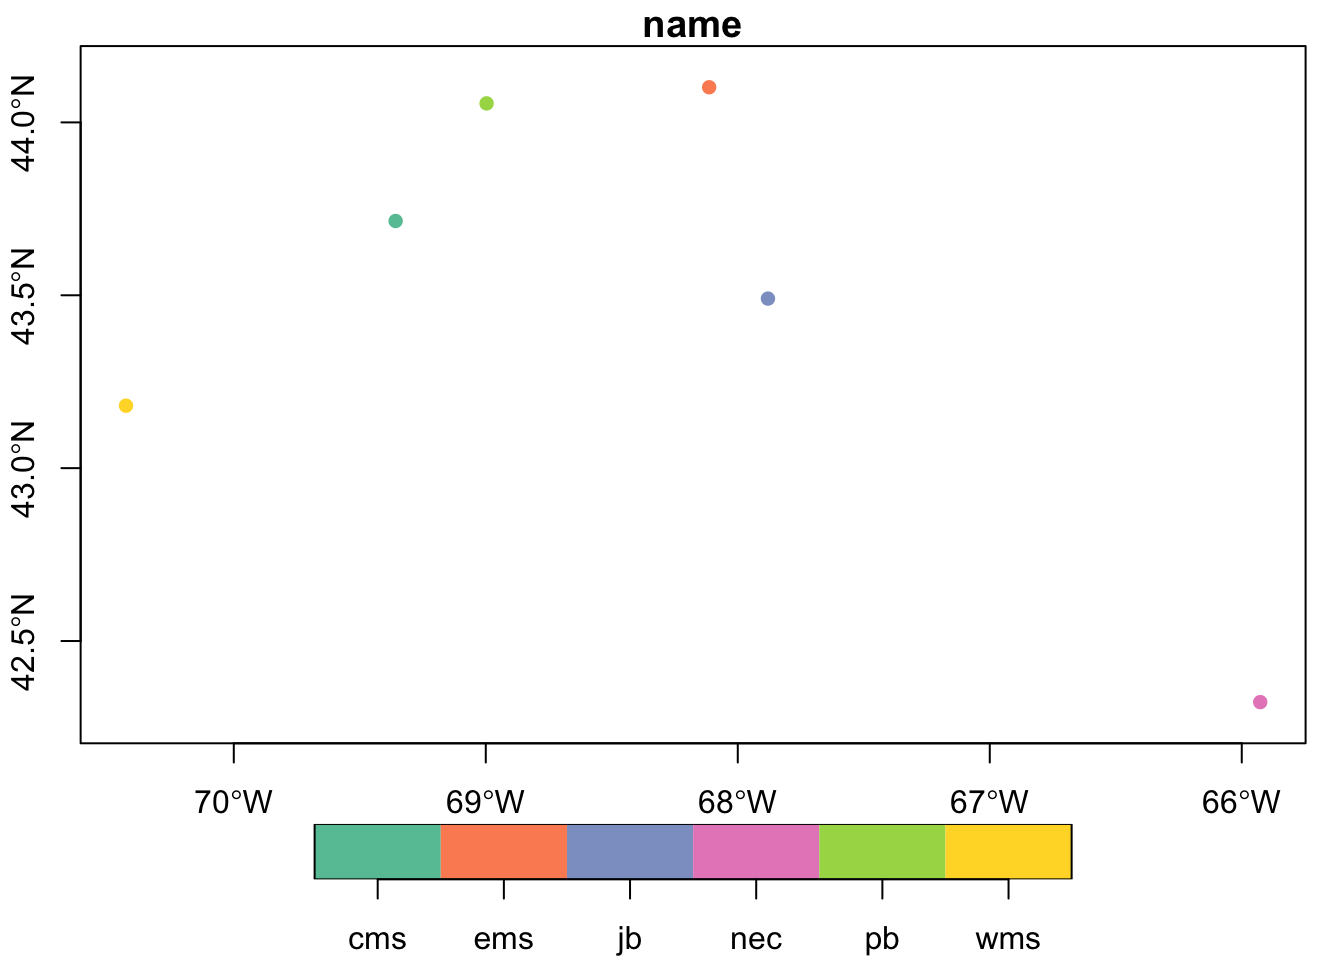
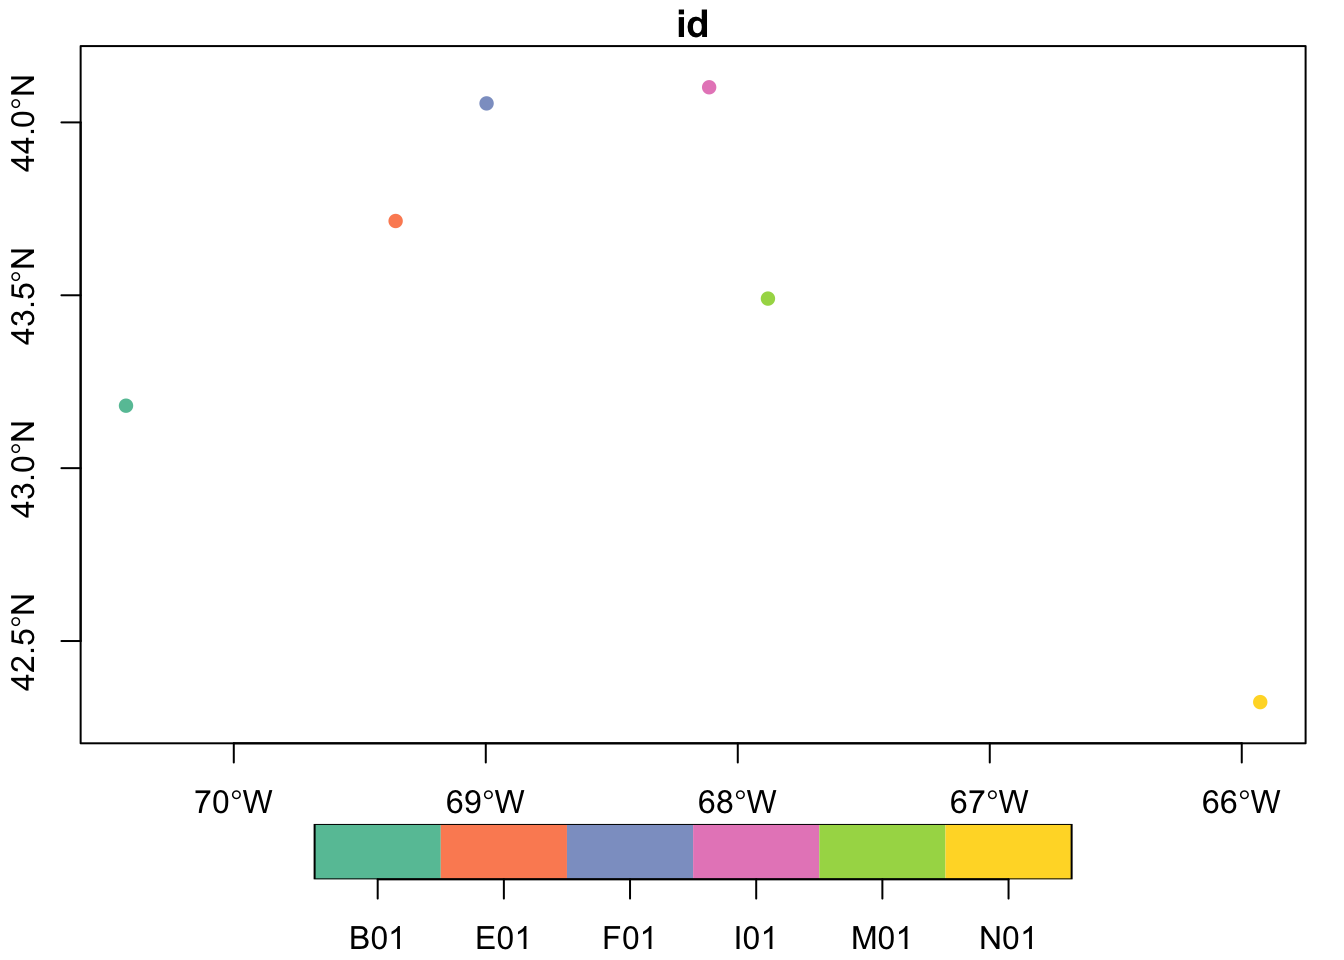
render C00_coding page

diff --git a/docs/C00_coding.html b/docs/C00_coding.html
@@ -251,7 +251,7 @@ pre > code.sourceCode > span > a:first-child::before { text-decoration: underlin
 </section>
 <section id="coding-with-r" class="level1" data-number="4">
 <h1 data-number="4"><span class="header-section-number">4</span> Coding with R</h1>
-<p>There are <a href="https://duckduckgo.com/?t=ffab&amp;q=introduction+to+R&amp;atb=v342-1&amp;ia=web">SO MANY TUTORIALS</a>, some a great and some not so much. <a href="https://intro2r.com/">This one</a> is a pretty good baby-steps approach and is quite up-to-date. You may find another that you prefer - let us know what works for you.</p>
+<p>There are <a href="https://duckduckgo.com/?t=ffab&amp;q=introduction+to+R&amp;atb=v342-1&amp;ia=web">SO MANY TUTORIALS</a>, some are great and some not so much. <a href="https://intro2r.com/">This one</a> is a pretty good baby-steps approach and is quite up-to-date. You may find another that you prefer - let us know what works for you.</p>
 <p>Take time to look at the tutorials in our <a href="https://github.com/BigelowLab/ColbyForecasting2025/wiki">wiki</a>. Especially the one on <a href="https://github.com/BigelowLab/ColbyForecasting2025/wiki/tables">working with tabular data</a>.</p>
 <p>There is so much to learning a programming language - it takes diving in to really get going. We’ll try to give you enough so that you can continue learning on your own.</p>
 <p><a href="https://en.wikipedia.org/wiki/A_journey_of_a_thousand_miles_begins_with_a_single_step">A journey of a thousand miles begins with a single step</a>; so let’s dive in.</p>
@@ -291,9 +291,9 @@ Geodetic CRS:  WGS 84
 6 nec   Northeast Channel   N01     (-65.9267 42.3233)</code></pre>
 </div>
 </div>
-<p>So there are 6 buoys, each with an attached attribute “name”, “longname” and “id”, as well as the spatial location datain the “geometry” column (just longitude and latitude in this case). We can easily plot these using the “name” column as a color key.</p>
+<p>So there are 6 buoys, each with an attached attribute “name”, “longname” and “id”, as well as the spatial location datain the “geometry” column (just longitude and latitude in this case). We can easily plot these using the “name” column as a color key. For more on plotting spatial data, see this <a href="Spatial">wiki page</a>.</p>
 <div class="cell">
-<div class="sourceCode cell-code" id="cb4"><pre class="sourceCode r code-with-copy"><code class="sourceCode r"><span id="cb4-1"><a href="#cb4-1" aria-hidden="true" tabindex="-1"></a><span class="fu">plot</span>(buoys[<span class="st">'name'</span>], <span class="at">axes =</span> <span class="cn">TRUE</span>, <span class="at">pch =</span> <span class="dv">16</span>)</span></code><button title="Copy to Clipboard" class="code-copy-button"><i class="bi"></i></button></pre></div>
+<div class="sourceCode cell-code" id="cb4"><pre class="sourceCode r code-with-copy"><code class="sourceCode r"><span id="cb4-1"><a href="#cb4-1" aria-hidden="true" tabindex="-1"></a><span class="fu">plot</span>(buoys[<span class="st">'id'</span>], <span class="at">axes =</span> <span class="cn">TRUE</span>, <span class="at">pch =</span> <span class="dv">16</span>)</span></code><button title="Copy to Clipboard" class="code-copy-button"><i class="bi"></i></button></pre></div>
 <div class="cell-output-display">
 <div>
 <figure class="figure">
@@ -336,13 +336,17 @@ Geodetic CRS:  WGS 84
 14 ((-74.9 39.14709, -74.89702 39.14546, -74.9 39.1329), (-74.9 38.95218, -74.7…</code></pre>
 </div>
 </div>
-<p>In this case, each record of geometry is a “MULTILINESTRING”, which is a group of one or more limestrings. Note that no other data is in this table - it’s just the geometry.</p>
+<p>In this case, each record of geometry is a “MULTILINESTRING”, which is a group of one or more linestrings. Note that no other variables are in this table - it’s just the geometry.</p>
 <p>Let’s plot these geometries, and add the points on top.</p>
 <div class="cell">
 <div class="sourceCode cell-code" id="cb7"><pre class="sourceCode r code-with-copy"><code class="sourceCode r"><span id="cb7-1"><a href="#cb7-1" aria-hidden="true" tabindex="-1"></a><span class="fu">plot</span>(coast, <span class="at">col =</span> <span class="st">"orange"</span>, <span class="at">lwd =</span> <span class="dv">2</span>, <span class="at">axes =</span> <span class="cn">TRUE</span>, <span class="at">reset =</span> <span class="cn">FALSE</span>,</span>
 <span id="cb7-2"><a href="#cb7-2" aria-hidden="true" tabindex="-1"></a>     <span class="at">main =</span> <span class="st">"Buoys in the Gulf of Maine"</span>)</span>
-<span id="cb7-3"><a href="#cb7-3" aria-hidden="true" tabindex="-1"></a><span class="fu">points</span>(buoys, <span class="at">pch =</span> <span class="dv">1</span>, <span class="at">cex =</span> <span class="fl">0.5</span>)</span>
-<span id="cb7-4"><a href="#cb7-4" aria-hidden="true" tabindex="-1"></a><span class="fu">text</span>(buoys, <span class="at">labels =</span> buoys<span class="sc">$</span>id, <span class="at">cex =</span> <span class="fl">0.7</span>, <span class="at">adj =</span> <span class="fu">c</span>(<span class="dv">1</span>,<span class="sc">-</span><span class="fl">0.1</span>))</span></code><button title="Copy to Clipboard" class="code-copy-button"><i class="bi"></i></button></pre></div>
+<span id="cb7-3"><a href="#cb7-3" aria-hidden="true" tabindex="-1"></a><span class="fu">plot</span>(buoys, <span class="at">pch =</span> <span class="dv">1</span>, <span class="at">cex =</span> <span class="fl">0.5</span>, <span class="at">add =</span> <span class="cn">TRUE</span>)</span></code><button title="Copy to Clipboard" class="code-copy-button"><i class="bi"></i></button></pre></div>
+<div class="cell-output cell-output-stderr">
+<pre><code>Warning in plot.sf(buoys, pch = 1, cex = 0.5, add = TRUE): ignoring all but the
+first attribute</code></pre>
+</div>
+<div class="sourceCode cell-code" id="cb9"><pre class="sourceCode r code-with-copy"><code class="sourceCode r"><span id="cb9-1"><a href="#cb9-1" aria-hidden="true" tabindex="-1"></a><span class="fu">text</span>(buoys, <span class="at">labels =</span> buoys<span class="sc">$</span>id, <span class="at">cex =</span> <span class="fl">0.7</span>, <span class="at">adj =</span> <span class="fu">c</span>(<span class="dv">1</span>,<span class="sc">-</span><span class="fl">0.1</span>))</span></code><button title="Copy to Clipboard" class="code-copy-button"><i class="bi"></i></button></pre></div>
 <div class="cell-output-display">
 <div>
 <figure class="figure">
@@ -357,9 +361,9 @@ Geodetic CRS:  WGS 84
 <p>Often spatial data comes in grids, like regular arrays of pixels. These are great for all sorts of data like satellite images, bathymetry maps and environmental modeling data. We’ll be working with environmental modeling data which we call “Brickman data”. You can learn more about <a href="https://github.com/BigelowLab/ColbyForecasting2025/wiki/Brickman">Brickman data in the wiki</a>. We’ll be glossing over the details here, but there’s lots of detail in the wiki.</p>
 <p>We’ll read in the database that tracks 82 Brickman data files, and then immediately filter out the rows that define the “PRESENT” scenario (where present means 1982–2013) and monthly climatology models.</p>
 <div class="cell">
-<div class="sourceCode cell-code" id="cb8"><pre class="sourceCode r code-with-copy"><code class="sourceCode r"><span id="cb8-1"><a href="#cb8-1" aria-hidden="true" tabindex="-1"></a>db <span class="ot">=</span> <span class="fu">brickman_database</span>() <span class="sc">|&gt;</span></span>
-<span id="cb8-2"><a href="#cb8-2" aria-hidden="true" tabindex="-1"></a>  <span class="fu">filter</span>(scenario <span class="sc">==</span> <span class="st">"PRESENT"</span>, interval <span class="sc">==</span> <span class="st">"mon"</span>) <span class="co"># note the double '==', it's comparative</span></span>
-<span id="cb8-3"><a href="#cb8-3" aria-hidden="true" tabindex="-1"></a>db</span></code><button title="Copy to Clipboard" class="code-copy-button"><i class="bi"></i></button></pre></div>
+<div class="sourceCode cell-code" id="cb10"><pre class="sourceCode r code-with-copy"><code class="sourceCode r"><span id="cb10-1"><a href="#cb10-1" aria-hidden="true" tabindex="-1"></a>db <span class="ot">=</span> <span class="fu">brickman_database</span>() <span class="sc">|&gt;</span></span>
+<span id="cb10-2"><a href="#cb10-2" aria-hidden="true" tabindex="-1"></a>  <span class="fu">filter</span>(scenario <span class="sc">==</span> <span class="st">"PRESENT"</span>, interval <span class="sc">==</span> <span class="st">"mon"</span>) <span class="co"># note the double '==', it's comparative</span></span>
+<span id="cb10-3"><a href="#cb10-3" aria-hidden="true" tabindex="-1"></a>db</span></code><button title="Copy to Clipboard" class="code-copy-button"><i class="bi"></i></button></pre></div>
 <div class="cell-output cell-output-stdout">
 <pre><code># A tibble: 8 × 4
   scenario year    interval var  
@@ -378,8 +382,8 @@ Geodetic CRS:  WGS 84
 <p>You might be wondering what that <code>|&gt;</code> is doing. It is called a pipe, and it delivers the output of one function to the next function as the first parameter (aka argument). For example, <code>brickman_database()</code> produces a table, that table is immediately passed into <code>filter()</code> to choose rows that match our criteria.</p>
 <p>Now that we have the database listing just the records we want, we pass it to the <code>read_brickman()</code> function.</p>
 <div class="cell">
-<div class="sourceCode cell-code" id="cb10"><pre class="sourceCode r code-with-copy"><code class="sourceCode r"><span id="cb10-1"><a href="#cb10-1" aria-hidden="true" tabindex="-1"></a>current <span class="ot">=</span> <span class="fu">read_brickman</span>(db)</span>
-<span id="cb10-2"><a href="#cb10-2" aria-hidden="true" tabindex="-1"></a>current</span></code><button title="Copy to Clipboard" class="code-copy-button"><i class="bi"></i></button></pre></div>
+<div class="sourceCode cell-code" id="cb12"><pre class="sourceCode r code-with-copy"><code class="sourceCode r"><span id="cb12-1"><a href="#cb12-1" aria-hidden="true" tabindex="-1"></a>current <span class="ot">=</span> <span class="fu">read_brickman</span>(db)</span>
+<span id="cb12-2"><a href="#cb12-2" aria-hidden="true" tabindex="-1"></a>current</span></code><button title="Copy to Clipboard" class="code-copy-button"><i class="bi"></i></button></pre></div>
 <div class="cell-output cell-output-stdout">
 <pre><code>stars object with 3 dimensions and 8 attributes
 attribute(s):
@@ -411,7 +415,7 @@ month    1  12     NA       NA     NA    NA Jan,...,Dec    </code></pre>
 <p>This loads quite a complex set of arrays, but they have spatial information attached in the <code>dimensions</code> section. The <code>x</code> and <code>y</code> dimensions represent longitude and latitude respectively. The 3rd dimension, <code>month</code>, is time based.</p>
 <p>Here we plot all 12 months of sea surface temperature, <code>SST</code>. Note the they all share the same color scale so that they are easy to compare.</p>
 <div class="cell">
-<div class="sourceCode cell-code" id="cb12"><pre class="sourceCode r code-with-copy"><code class="sourceCode r"><span id="cb12-1"><a href="#cb12-1" aria-hidden="true" tabindex="-1"></a><span class="fu">plot</span>(current[<span class="st">'SST'</span>])</span></code><button title="Copy to Clipboard" class="code-copy-button"><i class="bi"></i></button></pre></div>
+<div class="sourceCode cell-code" id="cb14"><pre class="sourceCode r code-with-copy"><code class="sourceCode r"><span id="cb14-1"><a href="#cb14-1" aria-hidden="true" tabindex="-1"></a><span class="fu">plot</span>(current[<span class="st">'SST'</span>])</span></code><button title="Copy to Clipboard" class="code-copy-button"><i class="bi"></i></button></pre></div>
 <div class="cell-output-display">
 <div>
 <figure class="figure">
@@ -422,9 +426,9 @@ month    1  12     NA       NA     NA    NA Jan,...,Dec    </code></pre>
 </div>
 <p>Just as we are able to plot linestrings/polygons along side points, we can also plot these with arrays (rasters). To do this for one month (“Apr”) of one variable (“SSS”) we simply need to slice that data out of the <code>current</code> variable.</p>
 <div class="cell">
-<div class="sourceCode cell-code" id="cb13"><pre class="sourceCode r code-with-copy"><code class="sourceCode r"><span id="cb13-1"><a href="#cb13-1" aria-hidden="true" tabindex="-1"></a>april_sss <span class="ot">=</span> current[<span class="st">'SSS'</span>] <span class="sc">|&gt;</span></span>
-<span id="cb13-2"><a href="#cb13-2" aria-hidden="true" tabindex="-1"></a>  <span class="fu">slice</span>(<span class="st">"month"</span>, <span class="st">"Apr"</span>)</span>
-<span id="cb13-3"><a href="#cb13-3" aria-hidden="true" tabindex="-1"></a>april_sss</span></code><button title="Copy to Clipboard" class="code-copy-button"><i class="bi"></i></button></pre></div>
+<div class="sourceCode cell-code" id="cb15"><pre class="sourceCode r code-with-copy"><code class="sourceCode r"><span id="cb15-1"><a href="#cb15-1" aria-hidden="true" tabindex="-1"></a>april_sss <span class="ot">=</span> current[<span class="st">'SSS'</span>] <span class="sc">|&gt;</span></span>
+<span id="cb15-2"><a href="#cb15-2" aria-hidden="true" tabindex="-1"></a>  <span class="fu">slice</span>(<span class="st">"month"</span>, <span class="st">"Apr"</span>)</span>
+<span id="cb15-3"><a href="#cb15-3" aria-hidden="true" tabindex="-1"></a>april_sss</span></code><button title="Copy to Clipboard" class="code-copy-button"><i class="bi"></i></button></pre></div>
 <div class="cell-output cell-output-stdout">
 <pre><code>stars object with 2 dimensions and 1 attribute
 attribute(s):
@@ -438,9 +442,13 @@ y    1  89  46.08 -0.08226 WGS 84 FALSE [y]</code></pre>
 </div>
 <p>Then it’s just plot, plot, plot.</p>
 <div class="cell">
-<div class="sourceCode cell-code" id="cb15"><pre class="sourceCode r code-with-copy"><code class="sourceCode r"><span id="cb15-1"><a href="#cb15-1" aria-hidden="true" tabindex="-1"></a><span class="fu">plot</span>(april_sss, <span class="at">axes =</span> <span class="cn">TRUE</span>, <span class="at">reset =</span> <span class="cn">FALSE</span>)</span>
-<span id="cb15-2"><a href="#cb15-2" aria-hidden="true" tabindex="-1"></a><span class="fu">plot</span>(coast, <span class="at">add =</span> <span class="cn">TRUE</span>, <span class="at">col =</span> <span class="st">"orange"</span>, <span class="at">lwd =</span> <span class="dv">2</span>)</span>
-<span id="cb15-3"><a href="#cb15-3" aria-hidden="true" tabindex="-1"></a><span class="fu">points</span>(buoys, <span class="at">pch =</span> <span class="dv">16</span>, <span class="at">col =</span> <span class="st">"purple"</span>)</span></code><button title="Copy to Clipboard" class="code-copy-button"><i class="bi"></i></button></pre></div>
+<div class="sourceCode cell-code" id="cb17"><pre class="sourceCode r code-with-copy"><code class="sourceCode r"><span id="cb17-1"><a href="#cb17-1" aria-hidden="true" tabindex="-1"></a><span class="fu">plot</span>(april_sss, <span class="at">axes =</span> <span class="cn">TRUE</span>, <span class="at">reset =</span> <span class="cn">FALSE</span>)</span>
+<span id="cb17-2"><a href="#cb17-2" aria-hidden="true" tabindex="-1"></a><span class="fu">plot</span>(coast, <span class="at">add =</span> <span class="cn">TRUE</span>, <span class="at">col =</span> <span class="st">"orange"</span>, <span class="at">lwd =</span> <span class="dv">2</span>)</span>
+<span id="cb17-3"><a href="#cb17-3" aria-hidden="true" tabindex="-1"></a><span class="fu">plot</span>(buoys, <span class="at">add =</span> <span class="cn">TRUE</span>, <span class="at">pch =</span> <span class="dv">16</span>, <span class="at">col =</span> <span class="st">"purple"</span>)</span></code><button title="Copy to Clipboard" class="code-copy-button"><i class="bi"></i></button></pre></div>
+<div class="cell-output cell-output-stderr">
+<pre><code>Warning in plot.sf(buoys, add = TRUE, pch = 16, col = "purple"): ignoring all
+but the first attribute</code></pre>
+</div>
 <div class="cell-output-display">
 <div>
 <figure class="figure">
@@ -451,16 +459,42 @@ y    1  89  46.08 -0.08226 WGS 84 FALSE [y]</code></pre>
 </div>
 <p>We can plot <strong>ALL</strong> twelve months of a variable (“SST”) with the coast and points shown. There is one slight modification to be made since a single call to <code>plot()</code> actually gets invoked 12 times for this data. So where do we add in the buoys and coast? Fortunately, we can create what is called a “hook” function - <em>who knows where the name hook came from?</em> Once the hook function is defined, it will be applied to the each of the 12 subplots.</p>
 <div class="cell">
-<div class="sourceCode cell-code" id="cb16"><pre class="sourceCode r code-with-copy"><code class="sourceCode r"><span id="cb16-1"><a href="#cb16-1" aria-hidden="true" tabindex="-1"></a><span class="co"># a little function that gets called just after each sub-plot</span></span>
-<span id="cb16-2"><a href="#cb16-2" aria-hidden="true" tabindex="-1"></a><span class="co"># it simple adds the coast and buoy</span></span>
-<span id="cb16-3"><a href="#cb16-3" aria-hidden="true" tabindex="-1"></a>add_coast_and_buoys <span class="ot">=</span> <span class="cf">function</span>(){</span>
-<span id="cb16-4"><a href="#cb16-4" aria-hidden="true" tabindex="-1"></a>  <span class="fu">plot</span>(coast, <span class="at">col =</span> <span class="st">"orange"</span>, <span class="at">lwd =</span> <span class="dv">2</span>, <span class="at">add =</span> <span class="cn">TRUE</span>)</span>
-<span id="cb16-5"><a href="#cb16-5" aria-hidden="true" tabindex="-1"></a>  <span class="fu">points</span>(buoys, <span class="at">pch =</span> <span class="dv">16</span>, <span class="at">col =</span> <span class="st">"purple"</span>)</span>
-<span id="cb16-6"><a href="#cb16-6" aria-hidden="true" tabindex="-1"></a>}</span>
-<span id="cb16-7"><a href="#cb16-7" aria-hidden="true" tabindex="-1"></a></span>
-<span id="cb16-8"><a href="#cb16-8" aria-hidden="true" tabindex="-1"></a><span class="co"># here we call the plot, and tell R where to call `add_coast_and_buoys()` after</span></span>
-<span id="cb16-9"><a href="#cb16-9" aria-hidden="true" tabindex="-1"></a><span class="co"># each subplot is made</span></span>
-<span id="cb16-10"><a href="#cb16-10" aria-hidden="true" tabindex="-1"></a><span class="fu">plot</span>(current[<span class="st">'SST'</span>], <span class="at">hook =</span> add_coast_and_buoys)</span></code><button title="Copy to Clipboard" class="code-copy-button"><i class="bi"></i></button></pre></div>
+<div class="sourceCode cell-code" id="cb19"><pre class="sourceCode r code-with-copy"><code class="sourceCode r"><span id="cb19-1"><a href="#cb19-1" aria-hidden="true" tabindex="-1"></a><span class="co"># a little function that gets called just after each sub-plot</span></span>
+<span id="cb19-2"><a href="#cb19-2" aria-hidden="true" tabindex="-1"></a><span class="co"># it simple adds the coast and buoy</span></span>
+<span id="cb19-3"><a href="#cb19-3" aria-hidden="true" tabindex="-1"></a>add_coast_and_buoys <span class="ot">=</span> <span class="cf">function</span>(){</span>
+<span id="cb19-4"><a href="#cb19-4" aria-hidden="true" tabindex="-1"></a>  <span class="fu">plot</span>(coast, <span class="at">col =</span> <span class="st">"orange"</span>, <span class="at">lwd =</span> <span class="dv">2</span>, <span class="at">add =</span> <span class="cn">TRUE</span>)</span>
+<span id="cb19-5"><a href="#cb19-5" aria-hidden="true" tabindex="-1"></a>  <span class="fu">plot</span>(buoys, <span class="at">pch =</span> <span class="dv">16</span>, <span class="at">col =</span> <span class="st">"purple"</span>, <span class="at">add =</span> <span class="cn">TRUE</span>)</span>
+<span id="cb19-6"><a href="#cb19-6" aria-hidden="true" tabindex="-1"></a>}</span>
+<span id="cb19-7"><a href="#cb19-7" aria-hidden="true" tabindex="-1"></a></span>
+<span id="cb19-8"><a href="#cb19-8" aria-hidden="true" tabindex="-1"></a><span class="co"># here we call the plot, and tell R where to call `add_coast_and_buoys()` after</span></span>
+<span id="cb19-9"><a href="#cb19-9" aria-hidden="true" tabindex="-1"></a><span class="co"># each subplot is made</span></span>
+<span id="cb19-10"><a href="#cb19-10" aria-hidden="true" tabindex="-1"></a><span class="fu">plot</span>(current[<span class="st">'SST'</span>], <span class="at">hook =</span> add_coast_and_buoys)</span></code><button title="Copy to Clipboard" class="code-copy-button"><i class="bi"></i></button></pre></div>
+<div class="cell-output cell-output-stderr">
+<pre><code>Warning in plot.sf(buoys, pch = 16, col = "purple", add = TRUE): ignoring all
+but the first attribute
+Warning in plot.sf(buoys, pch = 16, col = "purple", add = TRUE): ignoring all
+but the first attribute
+Warning in plot.sf(buoys, pch = 16, col = "purple", add = TRUE): ignoring all
+but the first attribute
+Warning in plot.sf(buoys, pch = 16, col = "purple", add = TRUE): ignoring all
+but the first attribute
+Warning in plot.sf(buoys, pch = 16, col = "purple", add = TRUE): ignoring all
+but the first attribute
+Warning in plot.sf(buoys, pch = 16, col = "purple", add = TRUE): ignoring all
+but the first attribute
+Warning in plot.sf(buoys, pch = 16, col = "purple", add = TRUE): ignoring all
+but the first attribute
+Warning in plot.sf(buoys, pch = 16, col = "purple", add = TRUE): ignoring all
+but the first attribute
+Warning in plot.sf(buoys, pch = 16, col = "purple", add = TRUE): ignoring all
+but the first attribute
+Warning in plot.sf(buoys, pch = 16, col = "purple", add = TRUE): ignoring all
+but the first attribute
+Warning in plot.sf(buoys, pch = 16, col = "purple", add = TRUE): ignoring all
+but the first attribute
+Warning in plot.sf(buoys, pch = 16, col = "purple", add = TRUE): ignoring all
+but the first attribute</code></pre>
+</div>
 <div class="cell-output-display">
 <div>
 <figure class="figure">
